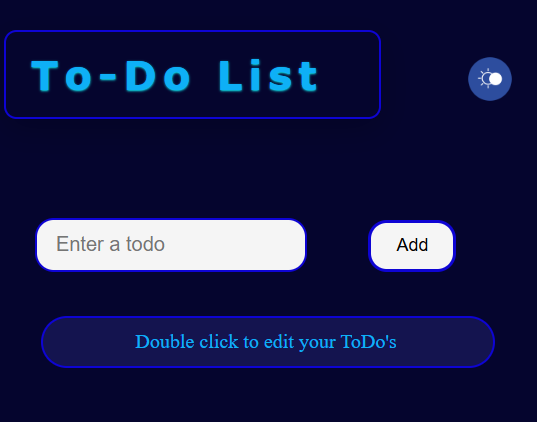
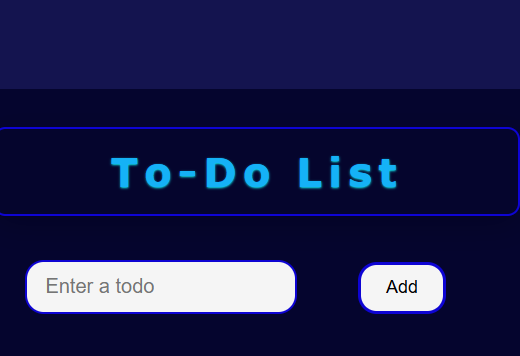
Update Portfolio

diff --git a/index.html b/index.html
@@ -187,16 +187,6 @@
         }
 
 
-        /* .vertical-desc {
-
-            position: relative;
-            color: grey;
-            top: 170px;
-            left: -90px;
-            width: 190px;
-            font-size: 7px;
-        } */
-
         .image-top {
             width: 30px;
             position: relative;
@@ -309,10 +299,6 @@
 
 
         @media screen and (max-width: 1400px) {
-            /* body {
-                 background-color: red; 
-            } */
-
             .box {
                 flex-direction: column;
             }
@@ -357,9 +343,6 @@
 
 
             .secondSection {
-                /* max-width: 80vw;
-                margin: auto;
-                height: 80vh; */
                 display: flex;
                 flex-direction: column;
                 align-items: center;
@@ -427,34 +410,22 @@
                 <div class="vertical">
                     <img class="image-top" src="developer.png" alt="">
                     <div class="vertical-title">HTML Developer (2018-2020)</div>
-                    <!-- <div class="vertical-desc">
-                        Lorem ipsum dolor sit amet consectetur, adipisicing elit. Dolore saepe tenetur, quis
-                        consequuntur earum officia neque architecto doloribus.
-                    </div> -->
+
                 </div>
                 <div class="vertical">
                     <img class="image-top" src="node.png" alt="">
                     <div class="vertical-title">Node.js Developer (2020-2022)</div>
-                    <!-- <div class="vertical-desc">
-                        Lorem ipsum dolor sit amet consectetur, adipisicing elit. Dolore saepe tenetur, quis
-                        consequuntur earum officia neque architecto doloribus.
-                    </div> -->
+
                 </div>
                 <div class="vertical">
                     <img class="image-top" src="stack.png" alt="">
                     <div class="vertical-title">Full Stack Developer (2023-2025)</div>
-                    <!-- <div class="vertical-desc">
-                        Lorem ipsum dolor sit amet consectetur, adipisicing elit. Dolore saepe tenetur, quis
-                        consequuntur earum officia neque architecto doloribus.
-                    </div> -->
+
                 </div>
                 <div class="vertical">
                     <img class="image-top" src="microsoft.png" alt="">
                     <div class="vertical-title">Currently Working in Microsoft</div>
-                    <!-- <div class="vertical-desc">
-                        Lorem ipsum dolor sit amet consectetur, adipisicing elit. Dolore saepe tenetur, quis
-                        consequuntur earum officia neque architecto doloribus.
-                    </div> -->
+
                 </div>
             </div>
         </section>
@@ -483,7 +454,7 @@
             <div class="footer-third">
                 <h3>Reach Us</h3>
                 <ul>
-                    <!-- <img class="image-locater" src="locator.png" alt=""> -->
+
                     <li>Prayagraj, Uttar Pradesh</li>
                     <li>abhisheky12@gmail.com</li>
                     <li>+91 727XXXXX04</li>

diff --git a/project.html b/project.html
@@ -57,7 +57,7 @@
 
 
         .box img {
-            border-radius: 15px;
+            border-radius: 30px;
             width: 40vh;
             height: 30vh;
             object-fit: cover;
@@ -88,33 +88,41 @@
         .btn {
             margin: -1px 18px;
             padding: 12px;
-            font-size: xx-small;
+            font-size: x-small;
             border: 2px solid rgb(54, 145, 224);
             border-radius: 20px;
             background-color: black;
-            /* color: rgb(246, 241, 241); */
             cursor: pointer;
             position: relative;
             top: 18vh;
-
         }
+
+
+        .btn:hover {
+            transition: all 0.3s ease-in;
+            font-size: small;
+        }
+
 
         .btn a {
             text-decoration: none;
             color: rgb(246, 241, 241);
-           
         }
 
         .btn a:hover {
-          
             transition: all 0.3s ease;
         }
 
-        /*.btn a:hover {
-            color: aliceblue;
-            background-color: rgb(62, 6, 95);
-            transition: all 0.3s ease;
-        } */
+
+        @media screen and (max-width:800px) {
+
+
+            .container {
+                height: 100%;
+                display: flex;
+                flex-direction: column;
+            }
+        }
     </style>
 </head>
 
@@ -131,7 +139,7 @@
                     </i></p>
             </div>
 
-            <button class="btn"><a href="/">Read More</a></button>
+            <button class="btn"><a href="/">Visit Page</a></button>
 
 
         </div>
@@ -143,7 +151,7 @@
                         an easy-to-use interface.
                     </i></p>
             </div>
-            <button class="btn"><a href="">Read More</a></button>
+            <button class="btn"><a href="https://abhishek20042002.github.io/Music-App/">Visit Page</a></button>
 
         </div>
         <div class="box">
@@ -154,7 +162,7 @@
                         tasks. Users can add new tasks, .
                     </i></p>
             </div>
-            <button class="btn"><a href="">Read More</a></button>button>
+            <button class="btn"><a href="https://abhishek20042002.github.io/ToDo-App/">Visit Page</a></button>
 
         </div>
     </div>

diff --git a/about.html b/about.html
@@ -11,11 +11,13 @@
             padding: 0;
         }
 
+
         body {
 
             background-color: rgba(44, 44, 110, 0.784);
             box-sizing: border-box;
         }
+
 
         nav {
             text-align: center;
@@ -26,6 +28,7 @@
             align-content: center;
             font-family: 'Lucida Sans', 'Lucida Sans Regular', 'Lucida Grande', 'Lucida Sans Unicode', Geneva, Verdana, sans-serif;
         }
+
 
         .box {
             background-color: rgb(212, 212, 221);
@@ -40,6 +43,7 @@
 
         }
 
+
         h2 {
             font-family: Arial, Helvetica, sans-serif;
             position: relative;
@@ -49,20 +53,20 @@
             color: rgb(59, 52, 52);
         }
 
+
         .para {
 
             position: relative;
             top: 45px;
         }
 
+
         .para1 {
             position: relative;
             top: -12vh;
             left: -5vh;
-
-
-
         }
+
 
         .para2 {
             position: relative;
@@ -70,11 +74,13 @@
             left: -5vh;
         }
 
+
         .para3 {
             position: relative;
             top: -6vh;
             left: -5vh;
         }
+
 
         .rec {
             position: relative;

diff --git a/skill.html b/skill.html
@@ -79,6 +79,12 @@
             border: solid black 3px;
             background-color: black;
         }
+
+        @media(max-width: 690px) {
+            .box {
+                width: auto;
+            }
+        }
     </style>
 </head>
 
